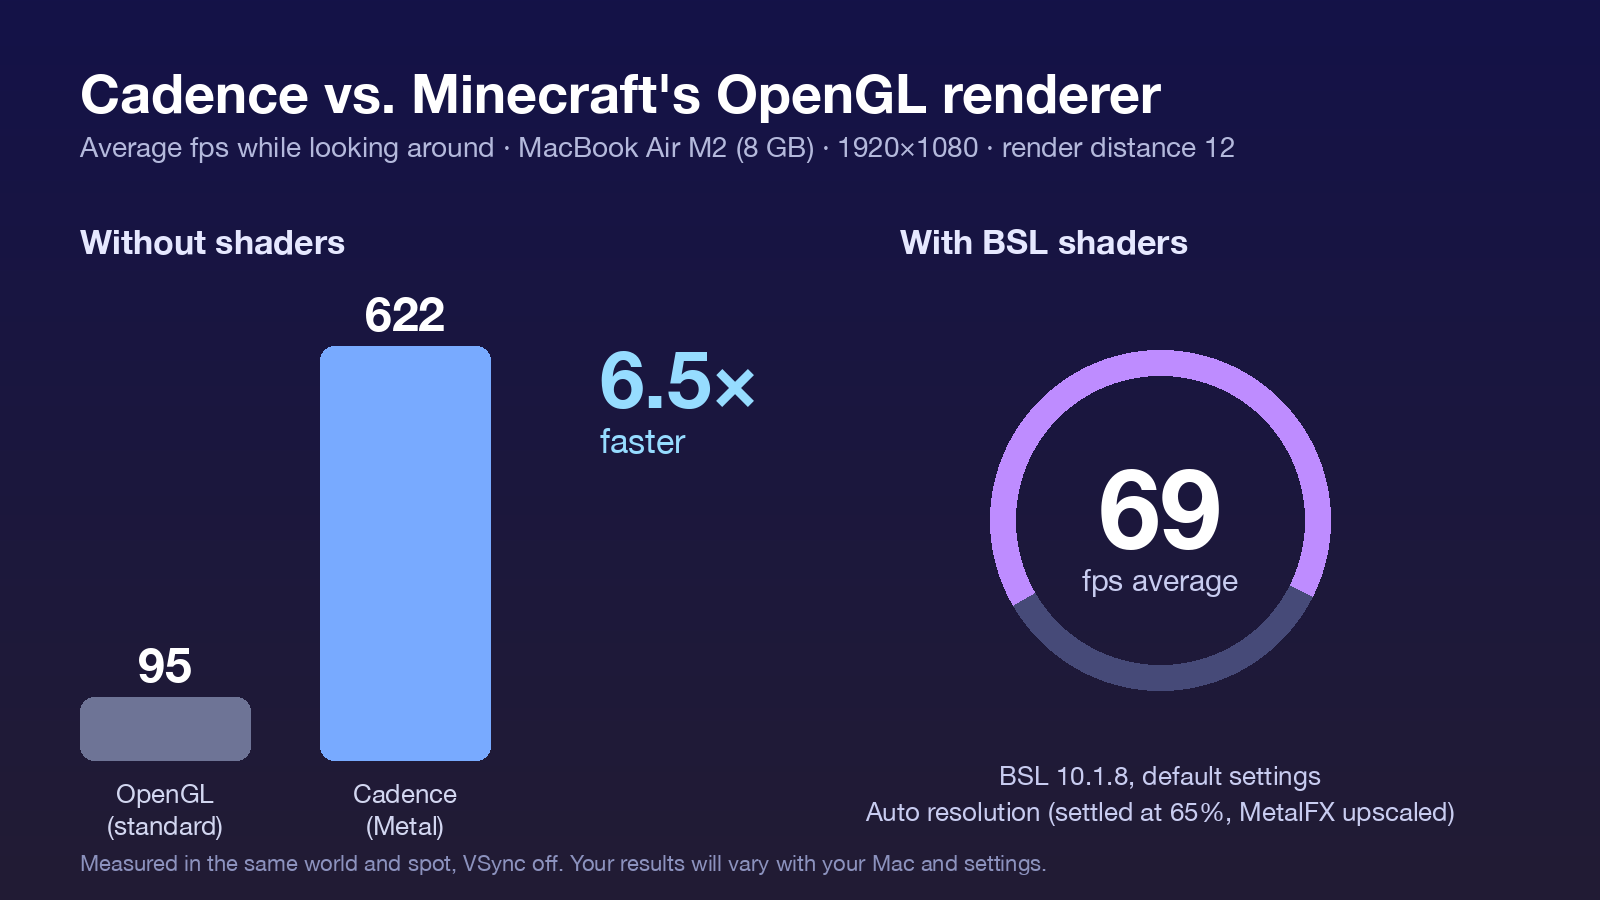
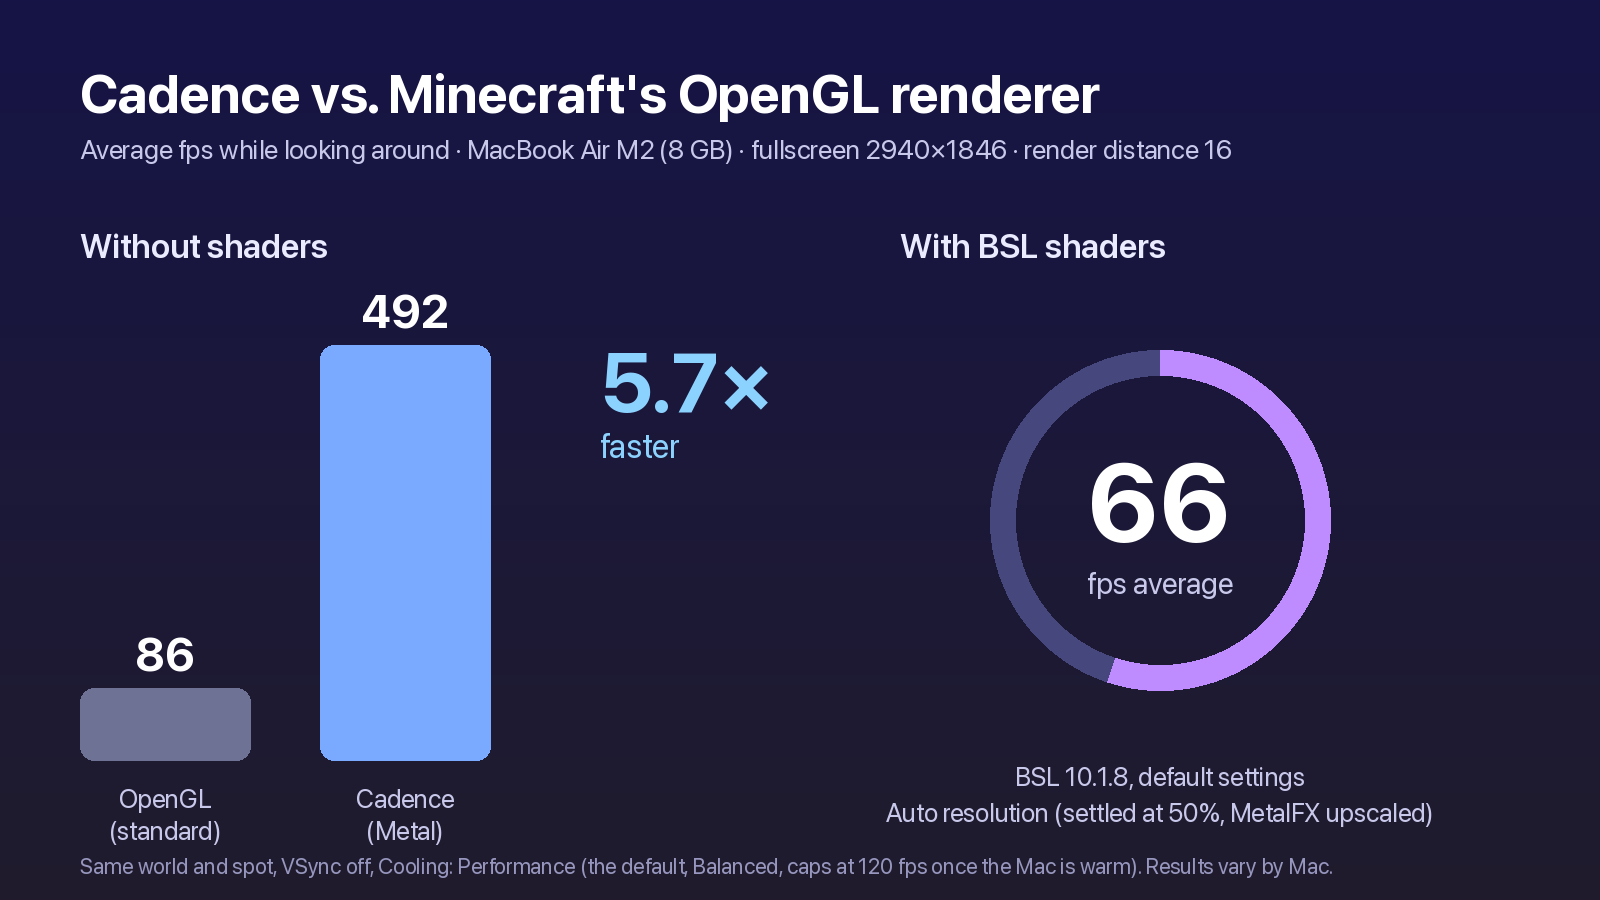
Benchmark graphic redone with honest fullscreen numbers (OpenGL 86, Cadence 492, BSL 66)
Measured fullscreen 2940x1846, RD 16, Cooling Performance, alternated launches; drawn
from the numbers by tools/profile/benchmark-graphic.py. Footnote says the default
Cooling caps at 120 fps once the Mac is warm.

diff --git a/tools/profile/benchmark-graphic.py b/tools/profile/benchmark-graphic.py
@@ -1,0 +1,65 @@
+#!/usr/bin/env python3
+"""Draws packaging/gallery/3-benchmark.png from measured numbers (no numbers are typed into the picture by hand).
+usage: benchmark-graphic.py OUT.png OPENGL_FPS METAL_FPS BSL_FPS BSL_SCALE_PERCENT "SETUP LINE" "FOOTNOTE"
+"""
+import sys
+from PIL import Image, ImageDraw, ImageFont
+
+out, gl, metal, bsl, scale, setup, foot = sys.argv[1], float(sys.argv[2]), float(sys.argv[3]), float(sys.argv[4]), sys.argv[5], sys.argv[6], sys.argv[7]
+W, H = 1600, 900
+SF = '/System/Library/Fonts/SFNS.ttf'
+
+
+def font(size, weight='Regular'):
+    f = ImageFont.truetype(SF, size)
+    try:
+        f.set_variation_by_name(weight)
+    except Exception:
+        pass
+    return f
+
+
+img = Image.new('RGB', (W, H))
+d = ImageDraw.Draw(img)
+for y in range(H):  # the original's dark navy to purple-grey gradient
+    t = y / H
+    d.line([(0, y), (W, y)], fill=(int(22 + 10 * t), int(20 + 8 * t), int(70 - 25 * t)))
+white, soft, dim = (255, 255, 255), (200, 200, 235), (150, 150, 190)
+d.text((80, 60), "Cadence vs. Minecraft's OpenGL renderer", font=font(54, 'Bold'), fill=white)
+d.text((80, 132), setup, font=font(27), fill=soft)
+
+# without shaders: two bars
+d.text((80, 225), "Without shaders", font=font(34, 'Semibold'), fill=(235, 235, 255))
+base, top = 760, 345
+hmax = base - top
+for i, (label, value, color) in enumerate([("OpenGL\n(standard)", gl, (110, 115, 150)), ("Cadence\n(Metal)", metal, (122, 170, 255))]):
+    x = 80 + i * 240
+    h = max(60, int(hmax * value / max(gl, metal)))
+    d.rounded_rectangle([x, base - h, x + 170, base], radius=14, fill=color)
+    num = f"{value:.0f}"
+    w = d.textlength(num, font=font(46, 'Bold'))
+    d.text((x + 85 - w / 2, base - h - 62), num, font=font(46, 'Bold'), fill=white)
+    for j, line in enumerate(label.split('\n')):
+        w = d.textlength(line, font=font(26))
+        d.text((x + 85 - w / 2, base + 22 + j * 32), line, font=font(26), fill=soft)
+ratio = metal / gl
+d.text((600, 330), f"{ratio:.1f}×", font=font(84, 'Bold'), fill=(140, 210, 255))
+d.text((600, 425), "faster", font=font(34), fill=(140, 210, 255))
+
+# with BSL: a ring with the average
+d.text((900, 225), "With BSL shaders", font=font(34, 'Semibold'), fill=(235, 235, 255))
+cx, cy, r = 1160, 520, 170
+d.ellipse([cx - r, cy - r, cx + r, cy + r], outline=(70, 72, 125), width=26)
+frac = min(1.0, bsl / 120.0)  # ring: share of 120 fps
+d.arc([cx - r, cy - r, cx + r, cy + r], start=-90, end=-90 + 360 * frac, fill=(190, 140, 255), width=26)
+num = f"{bsl:.0f}"
+w = d.textlength(num, font=font(110, 'Bold'))
+d.text((cx - w / 2, cy - 85), num, font=font(110, 'Bold'), fill=white)
+w = d.textlength("fps average", font=font(30))
+d.text((cx - w / 2, cy + 45), "fps average", font=font(30), fill=soft)
+for j, line in enumerate(["BSL 10.1.8, default settings", f"Auto resolution (settled at {scale}%, MetalFX upscaled)"]):
+    w = d.textlength(line, font=font(26))
+    d.text((cx - w / 2, 760 + j * 36), line, font=font(26), fill=soft)
+d.text((80, 852), foot, font=font(22), fill=dim)
+img.save(out)
+print("wrote", out)

diff --git a/docs/dev-log/PERF-NIGHT.md b/docs/dev-log/PERF-NIGHT.md
@@ -22,6 +22,7 @@ gain proven by a test that background load and heat can't fake.
 | Change | Result | Picture |
 |---|---|---|
 | **RGSS skip** (terrain shader): with RGSS texture filtering, which the player's instances use, vanilla takes 9 atlas samples per terrain pixel and blends "nearest" and "RGSS" by a factor that is exactly 0 wherever a texel covers at least a pixel on screen, which is most of the frame. Then only the nearest sample is taken. | Frame time **-25%** at native (in-run A/B: without it +32.9%, 44 windows, quartiles +29..+35%). The coastal view went from about 340-360 fps to 400-445. | Bit-exact: 0 differing pixels in 6 views |
+| **The same RGSS skip in vanilla's own terrain shader** (used when a pack was on at launch and is turned off), patched into `texture_sampling.glsl` as it loads | 5 interleaved on/off pairs (resource reloads in one session): **352-363 fps vs 244-291**, GPU 2.8 vs 3.55 ms | Bit-exact: 0 differing pixels in 4 views (positive control 232k) |
 | Lazy clears with shader packs (earlier tonight) | BSL GPU -1.6 to -1.75 ms | Identical |
 | Entity model writer (earlier tonight) | Render-thread CPU -5% | 155M faces compared, 0 mismatches |
 | **Glowing-outline target only while outlines show**: vanilla keeps a colour + depth target at window size for glowing outlines all the time; it is now 1 x 1 until a frame draws outlines, and 1 x 1 again 10 s after | **-38 MB** of GPU memory at 2940 x 1686 (about -41 MB fullscreen) | Outline drawn and aligned at 100% and 50% world resolution |
@@ -76,3 +77,27 @@ culling saves 2.3 ms and HiZ 1.0 ms (both on). The rest is the pack's own math. 
 - Opaque terrain is about 70% of the frame; everything else (sky, entities, translucent, HUD, present) about 0.35 ms.
 - In the nearer solid terrain draw, a constant colour instead of the shader saves 16%; the vertex colour alone saves 14%,
   so the remaining texture sample is most of the shading. Fog and the fade mix are about 1% each.
+
+## Compatibility layers (end of the night, first version)
+
+At launch Cadence reads every other mod's mixins and its own; where both touch one method and either replaces it, that
+area runs vanilla code (CPU and logic mixins one by one, the own terrain renderer as a whole; the rest is reported).
+Checked with `tools/compat-test-mod` (a hook on `ModelPart.Cube.compile`, the method the model writer overwrites): the
+writer stepped aside, the test hook ran millions of times, entities drew normally. With Lithium (in the dev mods folder)
+the four logic mixins step aside, as the hand-written "Lithium wins" rule already did. See ../COMPATIBILITY.md.
+
+## The honest benchmark (00:40-00:52, after ~5 hours of testing: a warm Mac)
+
+Fullscreen 2940 x 1846 (the M2 Air's screen below the notch), render distance 16, Cooling: Performance, VSync off, the
+same world and spot, average fps over two 20 s spins. Separate launches, alternated (Metal, OpenGL, Metal, OpenGL).
+
+| | Runs | Average |
+|---|---|---|
+| Minecraft's OpenGL renderer (`cadence.metal=false`, World Resolution held at 100%) | 86, 87, 85, 86 | **86** |
+| Cadence, no shaders | 487, 498, 489, 493 (425 standing still) | **492** |
+| Cadence, BSL 10.1.8, Auto resolution (settled at 50%) | 63, 69 | **66** |
+
+The first OpenGL runs were thrown out: Cadence's Auto World Resolution was active on OpenGL too and scaled its world
+down to 50-90%. The old graphic said 622 fps at a 1920 x 1080 framebuffer and render distance 12; the player saw about
+400 fullscreen. The new graphic (`packaging/gallery/3-benchmark.png`, drawn by `tools/profile/benchmark-graphic.py` from
+these numbers) shows the fullscreen numbers and says that the default Cooling (Balanced) caps at 120 fps once the Mac is warm.
